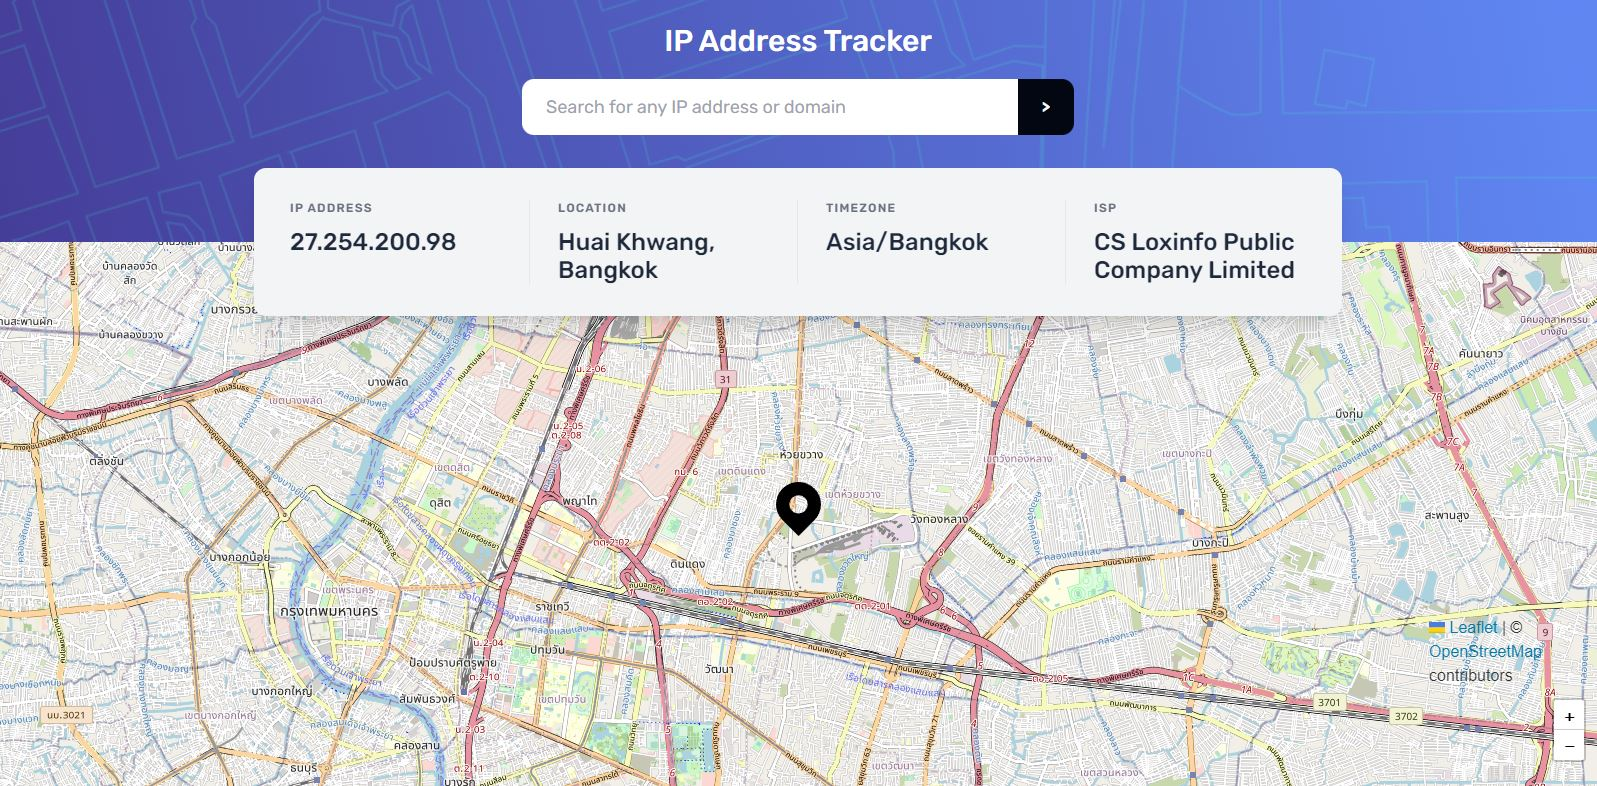
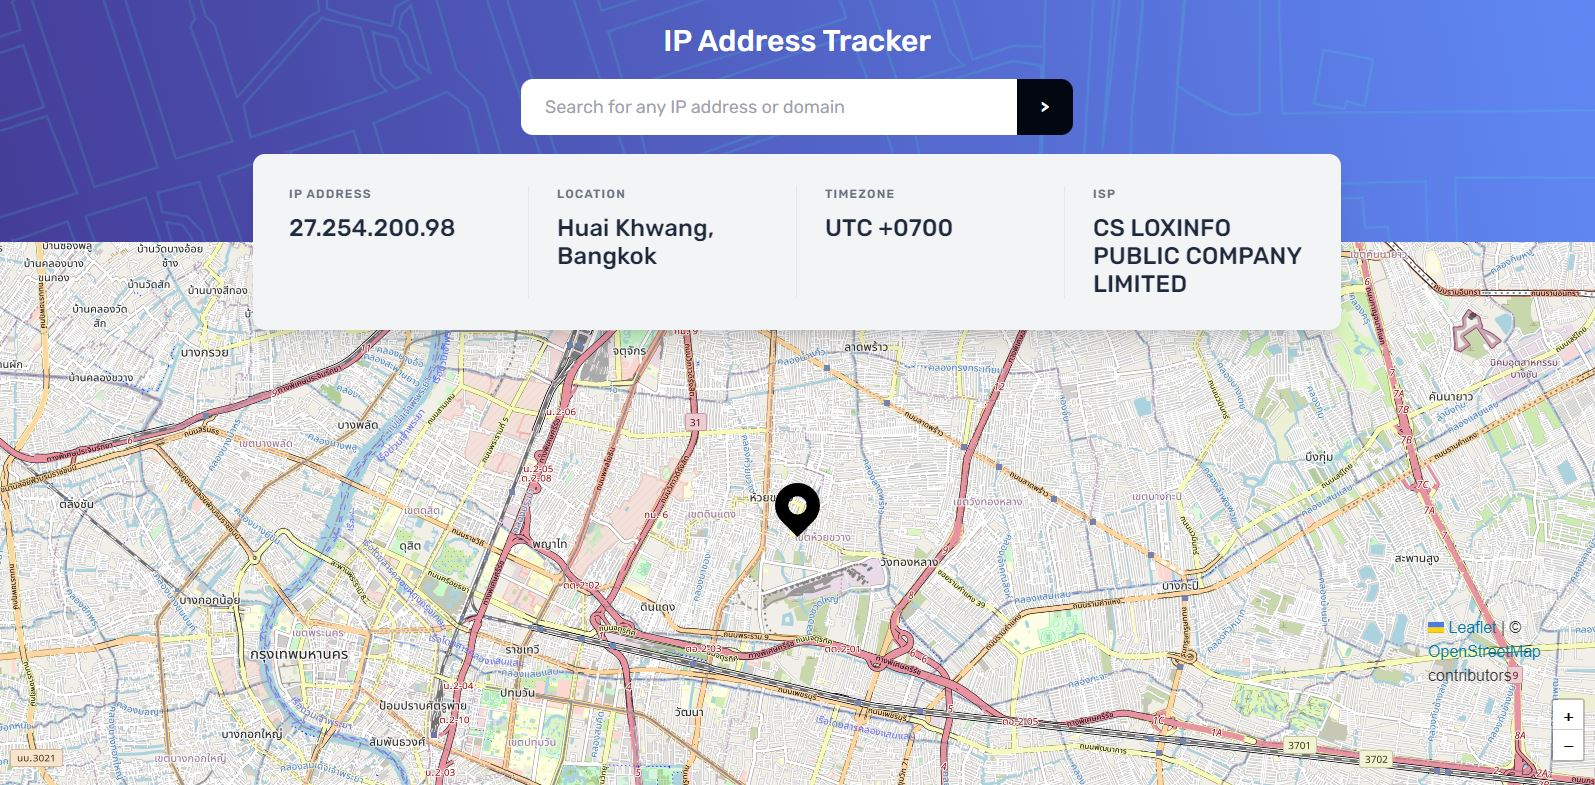
switch API

diff --git a/src/components/HeaderSection.tsx b/src/components/HeaderSection.tsx
@@ -27,12 +27,12 @@ const HeaderSection = () => {
   //onload, get user's IP data
   useEffect(() => {
     axios
-      .get("http://ip-api.com/json/")
+      .get("https://ipapi.co/json/")
       .then((res) => res.data)
       .then((data) => {
-        if (data?.message) {
+        if (data?.reason) {
           //alert error
-          alert(data?.message);
+          alert(data?.reason);
         } else {
           //save data
           updateIpData(data);
@@ -50,11 +50,11 @@ const HeaderSection = () => {
   });
   const onSubmit: SubmitHandler<Inputs> = async (formData) => {
     const { ipInput } = formData;
-    const res = await axios.get(`http://ip-api.com/json/${ipInput}`);
+    const res = await axios.get(`https://ipapi.co/${ipInput}/json/`);
     const { data } = res;
-    if (data?.message) {
+    if (data?.reason) {
       //alert error
-      alert(data?.message);
+      alert(data?.reason);
     } else {
       //save data
       updateIpData(data);
@@ -65,8 +65,8 @@ const HeaderSection = () => {
     <div
       className="text-center grid justify-items-center grid-cols-1 
       gap-5 z-10
-      bg-cover bg-origin-padding
       bg-[url('/images/pattern-bg-desktop.png')]
+      bg-cover bg-center
       relative w-full p-6  pb-[200px] min-[293px]:pb-[180px] md:pb-[95px] "
     >
       <h1 className="text-white text-3xl font-medium">IP Address Tracker</h1>

diff --git a/src/components/IpInfo/index.tsx b/src/components/IpInfo/index.tsx
@@ -1,6 +1,6 @@
 import { IpDataType } from "@/types/ipContext";
 import infoStyles from "./ipInfo.module.scss";
-const IPInfo = ({ query, city, regionName, timezone, isp }: IpDataType) => {
+const IPInfo = ({ ip, city, region, utc_offset, org }: IpDataType) => {
   return (
     <div
       className={`
@@ -10,21 +10,21 @@ const IPInfo = ({ query, city, regionName, timezone, isp }: IpDataType) => {
     >
       <div className={`${infoStyles.infoSection} ${infoStyles.divider}`}>
         <p>IP Address</p>
-        <h2>{query}</h2>
+        <h2>{ip}</h2>
       </div>
       <div className={`${infoStyles.infoSection} ${infoStyles.divider}`}>
         <p>Location</p>
         <h2>
-          {city}, {regionName}
+          {city}, {region}
         </h2>
       </div>
       <div className={`${infoStyles.infoSection} ${infoStyles.divider}`}>
         <p>Timezone</p>
-        <h2>{timezone}</h2>
+        <h2>UTC {utc_offset}</h2>
       </div>
       <div className={`${infoStyles.infoSection}`}>
         <p>ISP</p>
-        <h2>{isp}</h2>
+        <h2>{org}</h2>
       </div>
     </div>
   );

diff --git a/src/types/ipContext.ts b/src/types/ipContext.ts
@@ -1,14 +1,25 @@
 export type IpDataType = {
-  message?: string;
-  lat: number;
-  lon: number;
-  isp: string;
-  timezone: string;
+  reason?: string;
+  latitude: number;
+  longitude: number;
+  org: string;
+  utc_offset: string;
   city: string;
-  regionName: string;
-  query: string;
+  region: string;
+  ip: string;
   [key: string]: any;
 };
+// export type IpDataType = {
+//   message?: string;
+//   lat: number;
+//   lon: number;
+//   isp: string;
+//   timezone: string;
+//   city: string;
+//   regionName: string;
+//   query: string;
+//   [key: string]: any;
+// };
 
 export type IpContextType = {
   IpData: IpDataType | undefined;

diff --git a/src/components/Map/LocationMarker.tsx b/src/components/Map/LocationMarker.tsx
@@ -3,7 +3,11 @@ import Leaflet from "leaflet";
 import { useEffect } from "react";
 import { IpDataType } from "@/types/ipContext";
 
-const LocationMarker = ({ lat, lon, city }: IpDataType) => {
+const LocationMarker = ({
+  latitude: lat,
+  longitude: lon,
+  city,
+}: IpDataType) => {
   const markerIcon = new Leaflet.Icon({
     iconUrl: "/images/icon-location.svg",
     iconSize: [45, 55],

diff --git a/src/components/Map/Map.tsx b/src/components/Map/Map.tsx
@@ -9,7 +9,7 @@ import LocationMarker from "./LocationMarker";
 const Map = () => {
   const { IpData } = useContext(IpContext) as IpContextType;
   if (IpData) {
-    const { lat, lon } = IpData;
+    const { latitude: lat, longitude: lon } = IpData;
     return (
       <>
         <MapContainer

diff --git a/README.md b/README.md
@@ -50,6 +50,7 @@ Users should be able to:
 - [React Hook Form](https://react-hook-form.com/) - For form
 - [Leaflet](https://leafletjs.com/) - For interactive maps
 - [React Leaflet](https://react-leaflet.js.org/) - For React Leaflet binding
+- [IP api](https://ipapi.co/) - IP Location API
 
 ### What I learned
 
@@ -64,6 +65,8 @@ const Map = dynamic(() => import("./Map"), {
 });
 export default Map;
 ```
+
+Another issue I faced was that I used https://ip-api.com/ which only has http endpoint available. It worked find during development but couldn't work on deployment due to insecure XMLHttpRequest endpoint. I have to switch to https://ipapi.co/
 
 ### Useful resources
 
